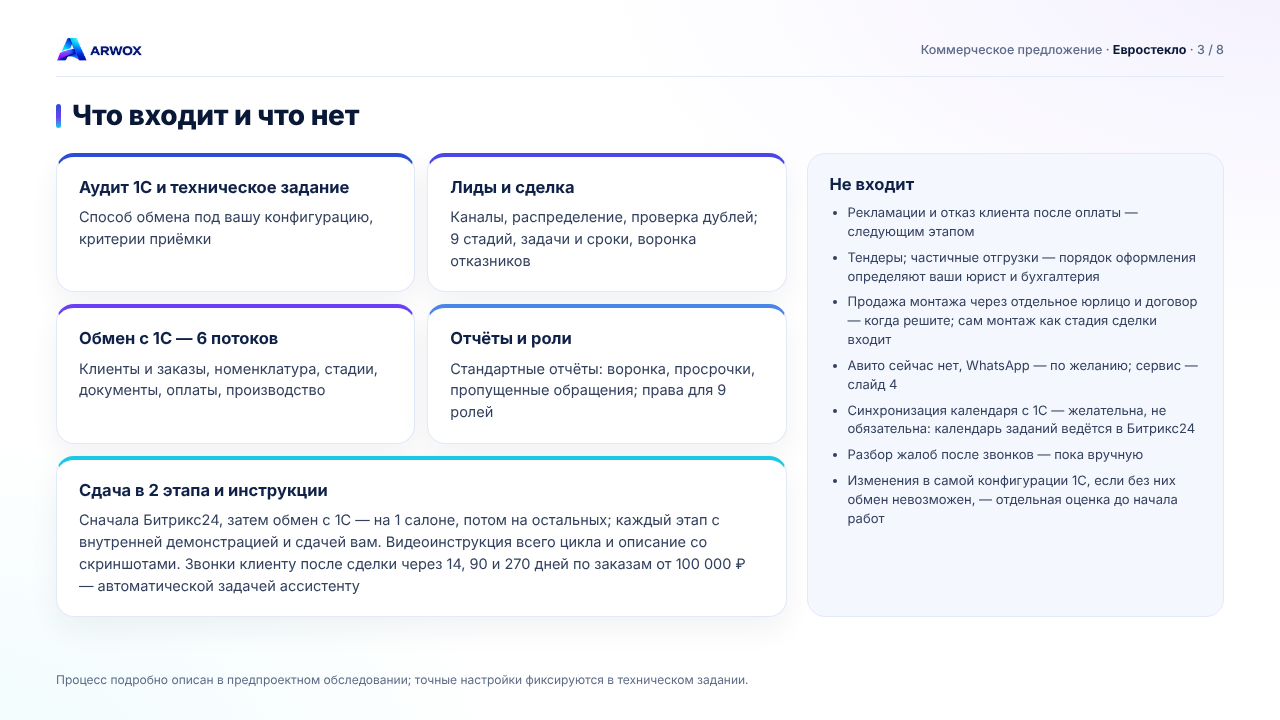
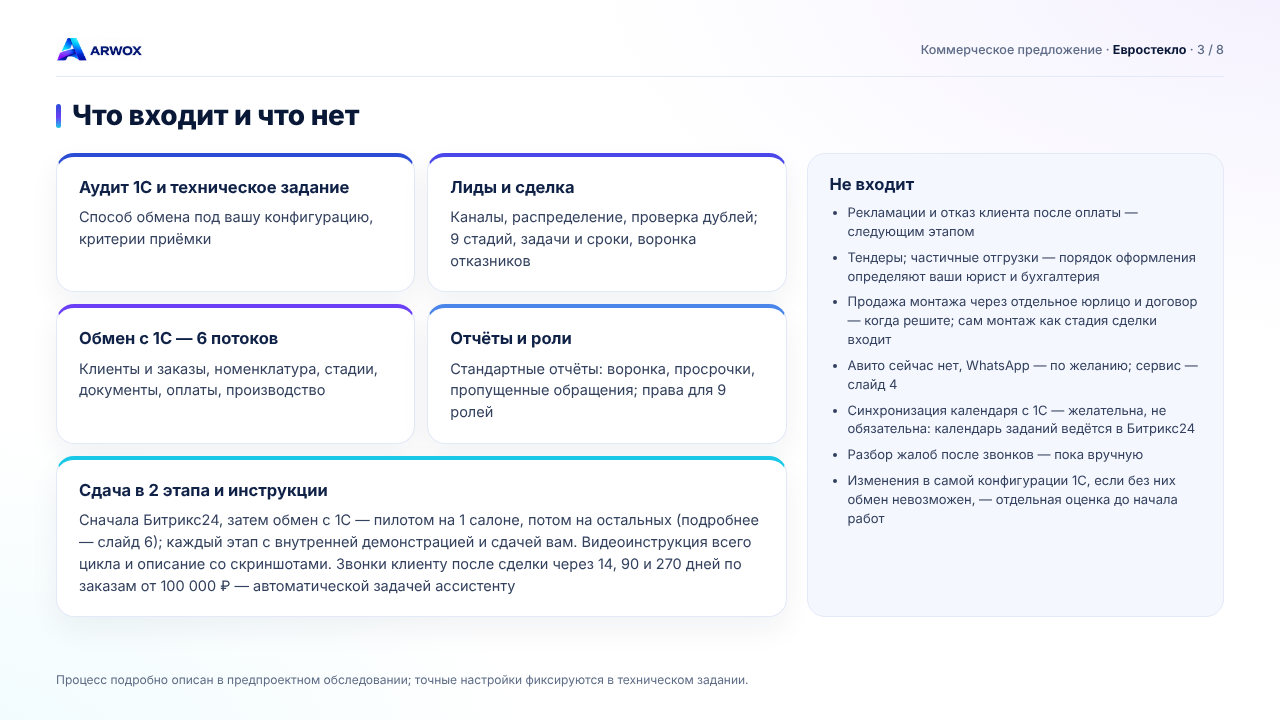
claude-web: КП — сноска про пилот, шаги подробнее; вопросы по КП закрыты
Claude-Session: https://claude.ai/code/session_01GkndF4A6X3vok37QfmD711

Changed region(s): [[0.0625, 0.7028, 0.5938, 0.825]]

diff --git a/docs/kp-design/2026-10-28/project/S08-etapy.dc.html b/docs/kp-design/2026-10-28/project/S08-etapy.dc.html
@@ -14,7 +14,8 @@
 body{margin:0}
 a{color:#2746e0}a:hover{color:#6b3ff5}
 .st h3{margin:12px 0 6px;font-size:15px;line-height:1.3;font-weight:700;color:#0f2147}
-.st p{margin:0;font-size:12.5px;line-height:1.45;color:#33415e}
+.st p{margin:0;font-size:12.5px;line-height:1.42;color:#33415e}
+.st sup,.fn sup{font-size:10px;font-weight:700;color:#6b3ff5}
 .t2{width:100%;border-collapse:separate;border-spacing:0;font-size:13px;line-height:1.42;border:1px solid #e4e9f7;border-radius:14px;overflow:hidden}
 .t2 th{background:#0f2147;color:#fff;text-align:left;font-weight:600;padding:9px 14px}
 .t2 td{padding:9px 14px;border-top:1px solid #e4e9f7;vertical-align:top;color:#33415e}
@@ -28,12 +29,12 @@ a{color:#2746e0}a:hover{color:#6b3ff5}
   <div style="position: relative; margin-top: 20px">
     <div style="position: absolute; left: 17px; right: 17px; top: 16px; height: 2px; background: linear-gradient(90deg, #2b4dd6 0%, #6b3ff5 55%, #18c8e6 100%)"></div>
     <div style="position: relative; display: grid; grid-template-columns: repeat(6, minmax(0, 1fr)); gap: 16px">
-      <div class="st"><span class="num">1</span><h3>Договор и оплата</h3><p>Оплата 160&nbsp;000&nbsp;₽; согласованное техническое задание становится приложением к договору</p></div>
-      <div class="st"><span class="num">2</span><h3>Аудит</h3><p>База 1С и портал Битрикс24, включая то, что настроено сейчас</p></div>
-      <div class="st"><span class="num">3</span><h3>Техническое задание</h3><p>Объём, критерии приёмки и график — вы согласуете</p></div>
-      <div class="st"><span class="num">4</span><h3>Этап 1: Битрикс24</h3><p>Настройка согласованного объёма → внутренняя демонстрация командой → сдача вам → оплата остатка. Недочёты правим в рамках задания</p></div>
-      <div class="st"><span class="num">5</span><h3>Этап 2: обмен с 1С</h3><p>Интеграция → внутренняя демонстрация → проверка на заказах 1 салона, затем остальных → корректировки → сдача вам</p></div>
-      <div class="st"><span class="num">6</span><h3>Инструкции и итог</h3><p>Видеоинструкция всего цикла от обращения до завершения сделки, описание со скриншотами, итоговый акт</p></div>
+      <div class="st"><span class="num">1</span><h3>Договор и оплата</h3><p>Подписываем договор, вы оплачиваете 160&nbsp;000&nbsp;₽. Согласованное техническое задание становится приложением к договору</p></div>
+      <div class="st"><span class="num">2</span><h3>Аудит</h3><p>Изучаем базу 1С и портал Битрикс24, включая то, что настроено сейчас, и фиксируем конфигурацию обеих систем</p></div>
+      <div class="st"><span class="num">3</span><h3>Техническое задание</h3><p>Описываем объём, критерии приёмки и график. После вашего согласования начинается отсчёт 30–35 дней</p></div>
+      <div class="st"><span class="num">4</span><h3>Этап 1: Битрикс24</h3><p>Лиды, сделка, роли, отчёты: настройка → внутренняя демонстрация командой → показ и сдача вам → оплата остатка. Недочёты правим в рамках задания</p></div>
+      <div class="st"><span class="num">5</span><h3>Этап 2: обмен с 1С</h3><p>Настройка обмена → внутренняя демонстрация → пилот на заказах 1 салона<sup>1</sup> → остальные салоны → сдача вам</p></div>
+      <div class="st"><span class="num">6</span><h3>Инструкции и итог</h3><p>Видеоинструкция всего цикла от обращения до завершения сделки, описание со скриншотами «где что нажимать», итоговый акт</p></div>
     </div>
   </div>
   <div style="margin-top: 20px; display: flex; align-items: center; gap: 18px; padding: 14px 20px; border-radius: 14px; background: linear-gradient(135deg, #0f2147 0%, #1f2f73 100%); color: #fff">
@@ -48,7 +49,7 @@ a{color:#2746e0}a:hover{color:#6b3ff5}
       <tr><td>Ежемесячное</td><td>Пакет часов в месяц с приоритетным ответом — объём и сумма фиксируются отдельно после запуска</td><td class="pr">по договорённости</td></tr>
     </tbody>
   </table>
-  <p class="foot" style="position: absolute; left: 56px; right: 56px; bottom: 28px; margin: 0">Сопровождение в итог предложения не входит. Первые 7 дней после сдачи исправления бесплатны.</p>
+  <div class="foot fn" style="position: absolute; left: 56px; right: 56px; bottom: 24px; margin: 0"><p style="margin: 0"><sup>1</sup> <b style="color: #0a1838">Пилот</b> — обмен с 1С сначала включаем только для заказов 1 салона и проверяем, что клиенты, заказы, оплаты и документы проходят между системами без ошибок. После этого подключаем остальные салоны: если что-то пойдёт не так, это затронет 1 салон, а не всю сеть.</p><p style="margin: 4px 0 0">Сопровождение в итог предложения не входит. Первые 7 дней после сдачи исправления бесплатны.</p></div>
 </div>
 </x-dc>
 <script type="text/x-dc" data-dc-script data-props='{"$preview":{"width":1280,"height":720}}'>

diff --git a/docs/kp-design/2026-10-28/project/S04-ramki.dc.html b/docs/kp-design/2026-10-28/project/S04-ramki.dc.html
@@ -27,7 +27,7 @@ a{color:#2746e0}a:hover{color:#6b3ff5}
       <div class="cd" style="padding: 20px 22px; border-top: 4px solid #4a46ea"><h3>Лиды и сделка</h3><p>Каналы, распределение, проверка дублей; 9 стадий, задачи и сроки, воронка отказников</p></div>
       <div class="cd" style="padding: 20px 22px; border-top: 4px solid #6b3ff5"><h3>Обмен с 1С — 6 потоков</h3><p>Клиенты и заказы, номенклатура, стадии, документы, оплаты, производство</p></div>
       <div class="cd" style="padding: 20px 22px; border-top: 4px solid #4a86ea"><h3>Отчёты и роли</h3><p>Стандартные отчёты: воронка, просрочки, пропущенные обращения; права для 9 ролей</p></div>
-      <div class="cd" style="padding: 20px 22px; border-top: 4px solid #18c8e6; grid-column: span 2"><h3>Сдача в 2 этапа и инструкции</h3><p>Сначала Битрикс24, затем обмен с 1С — на 1 салоне, потом на остальных; каждый этап с внутренней демонстрацией и сдачей вам. Видеоинструкция всего цикла и описание со скриншотами. Звонки клиенту после сделки через 14, 90 и 270&nbsp;дней по заказам от 100&nbsp;000&nbsp;₽ — автоматической задачей ассистенту</p></div>
+      <div class="cd" style="padding: 20px 22px; border-top: 4px solid #18c8e6; grid-column: span 2"><h3>Сдача в 2 этапа и инструкции</h3><p>Сначала Битрикс24, затем обмен с 1С — пилотом на 1 салоне, потом на остальных (подробнее — слайд 6); каждый этап с внутренней демонстрацией и сдачей вам. Видеоинструкция всего цикла и описание со скриншотами. Звонки клиенту после сделки через 14, 90 и 270&nbsp;дней по заказам от 100&nbsp;000&nbsp;₽ — автоматической задачей ассистенту</p></div>
     </div>
     <div class="cd soft" style="padding: 20px 22px">
       <h3>Не входит</h3>

diff --git a/sessions/2026-10-27-validatsiya-dannyh.md b/sessions/2026-10-27-validatsiya-dannyh.md
@@ -67,3 +67,5 @@
 - 28.10: открыто к владельцу: порядок оплаты (заглушка), кто делает работу на стороне 1С, вернуть ли пилот в этап 2, предел паузы (30 дней → новый график), тариф Wazzup Pro.
 - 28.10: ответы владельца: оплата «160 и потом остаток»; предел паузы 14 дней вне графика, дольше — новый график; Wazzup — Pro; пилот вернуть в этап 2. Внесено (холст, версия 8): слайд 7 — «160 000 ₽ при подписании, остаток 100 000 ₽ — после сдачи этапа 1, до старта этапа 2» (срок остатка — моё предложение, на подтверждение), пауза до 14 дней не входит в график, дольше — новый график; слайд 6 — оплата в шагах 1 и 4, этап 2 «проверка на заказах 1 салона, затем остальных», плашка срока с 14 днями; слайды 2, 3, 5, 8 — пилот и оплата согласованы. Вёрстка 0, карта фактов 35/35.
 - 28.10: открыто: кто делает работу на стороне 1С в пределах 260 000 ₽; подтвердить срок остатка оплаты.
+- 28.10: решение владельца по работам на стороне 1С: вопрос «плавающий», как будет работать разработчик со стороны клиента — неясно; КП отправляется в текущей формулировке (работы внутри 1С — при участии специалиста клиента, изменения конфигурации 1С — отдельная оценка). Если клиент будет настаивать — отдельное КП через формирование технического документа. Срок остатка оплаты (после этапа 1) — возражений нет, оставлен.
+- 28.10: пилот — сноска на слайде 6 простыми словами (что это и зачем), на слайде 3 ссылка «подробнее — слайд 6»; шаги 1–6 на слайде 6 немного детализированы. Холст, версия 9. Вёрстка 0, карта фактов 35/35. Все вопросы к владельцу по КП закрыты.
